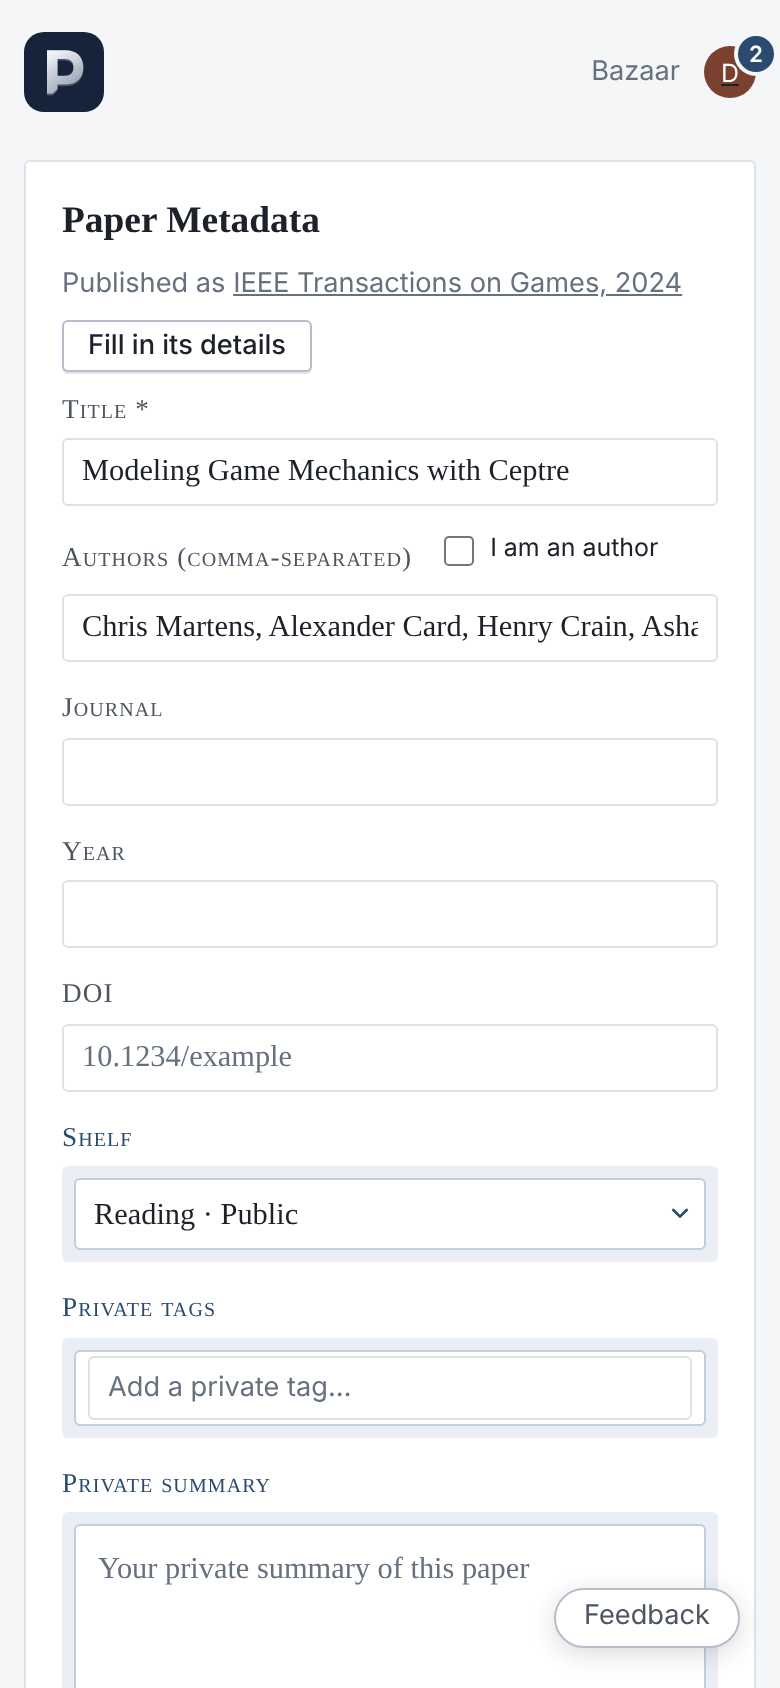
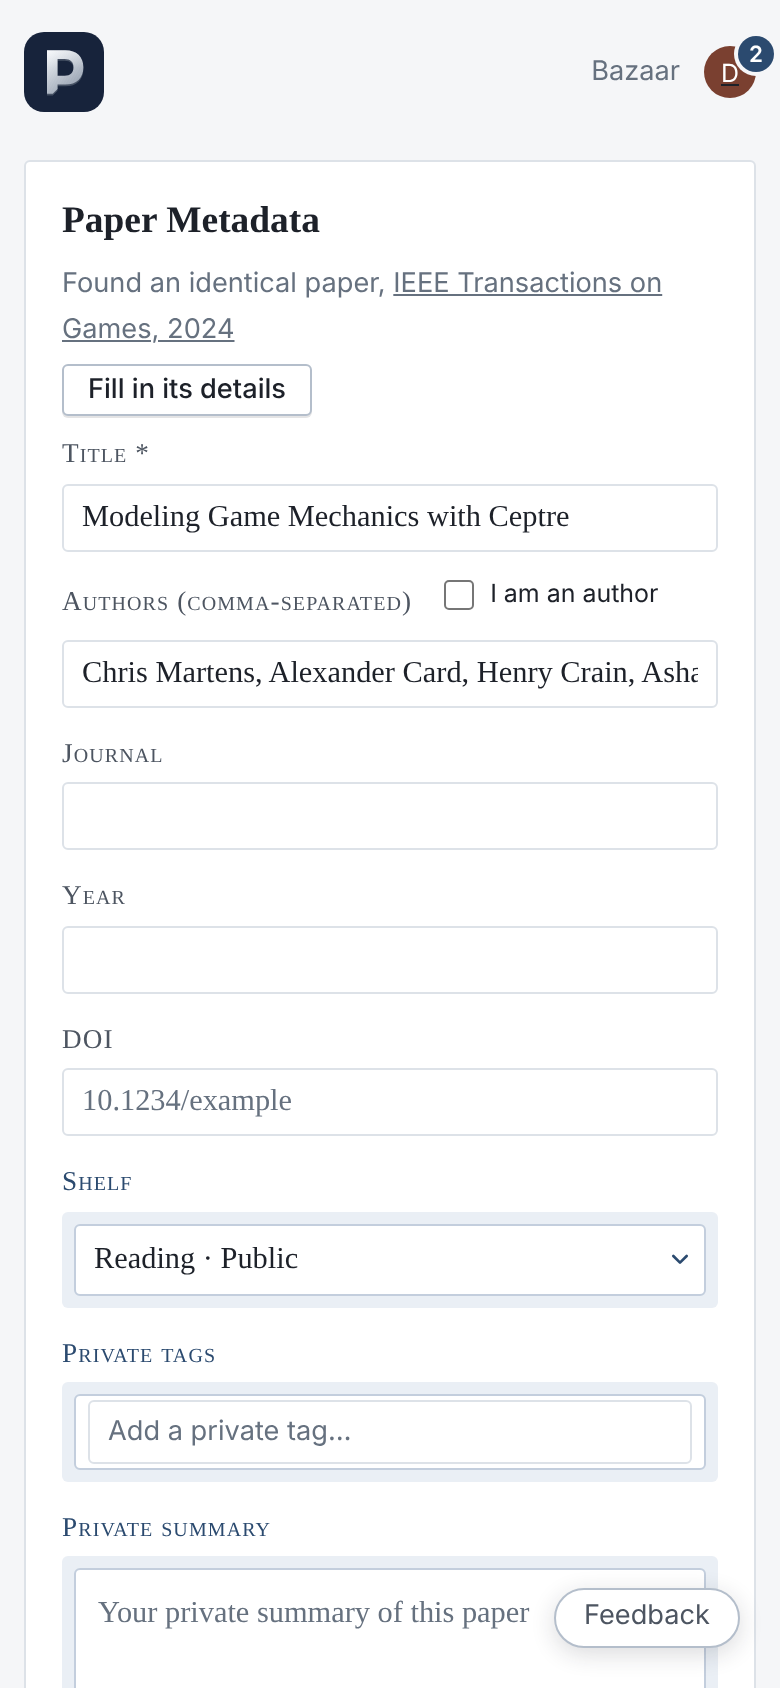
Upload form: say it found an identical paper
Claude-Session: https://claude.ai/code/session_01PQZzMTf8exfQdi4pgdifC7

diff --git a/frontend/src/components/PaperUpload.jsx b/frontend/src/components/PaperUpload.jsx
@@ -352,7 +352,7 @@ export default function PaperUpload({
         {published && (
           <div className="metadata-reading published-version" role="status">
             <span>
-              {usePublished ? 'Filled in from the published paper,' : 'Published as'}{' '}
+              {usePublished ? 'Filled in from the identical paper,' : 'Found an identical paper,'}{' '}
               <a href={publishedVersion(published).href} target="_blank" rel="noreferrer">{publishedVersion(published).where}</a>
             </span>
             {usePublished ? (
